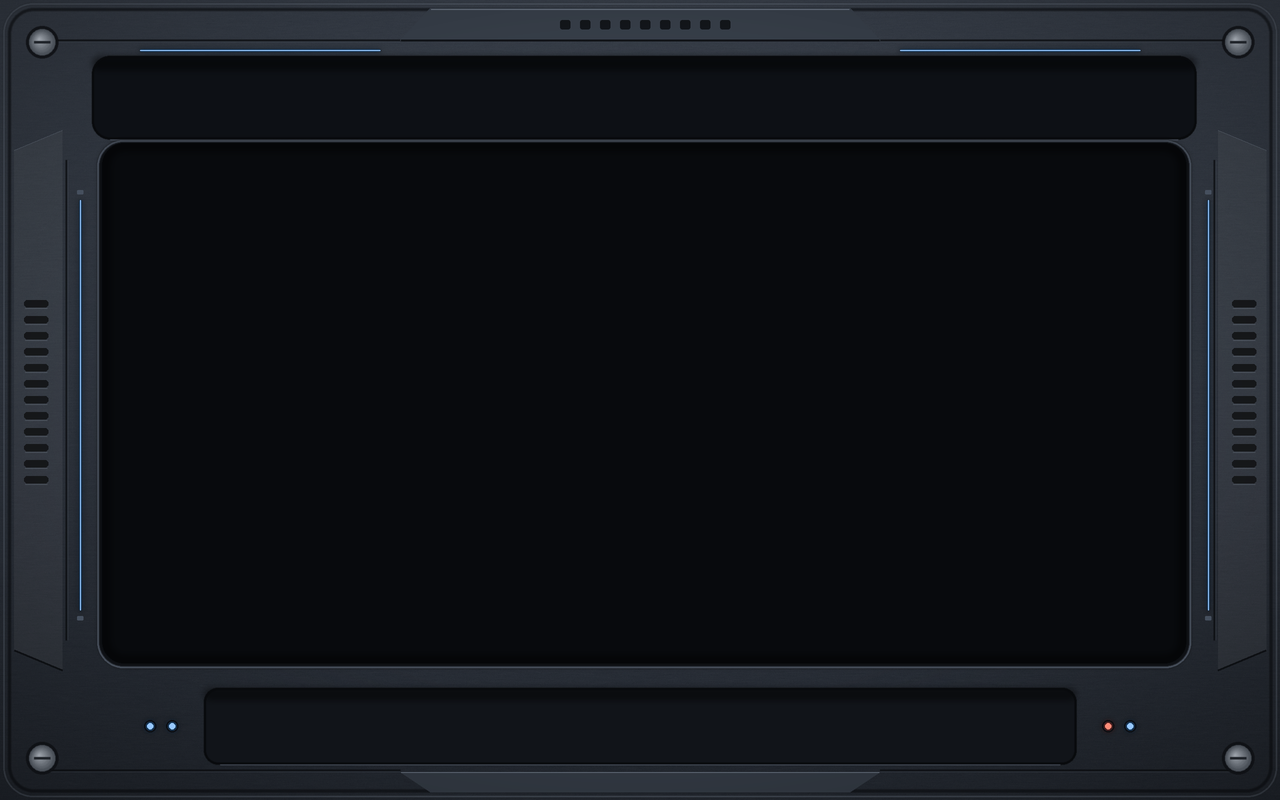
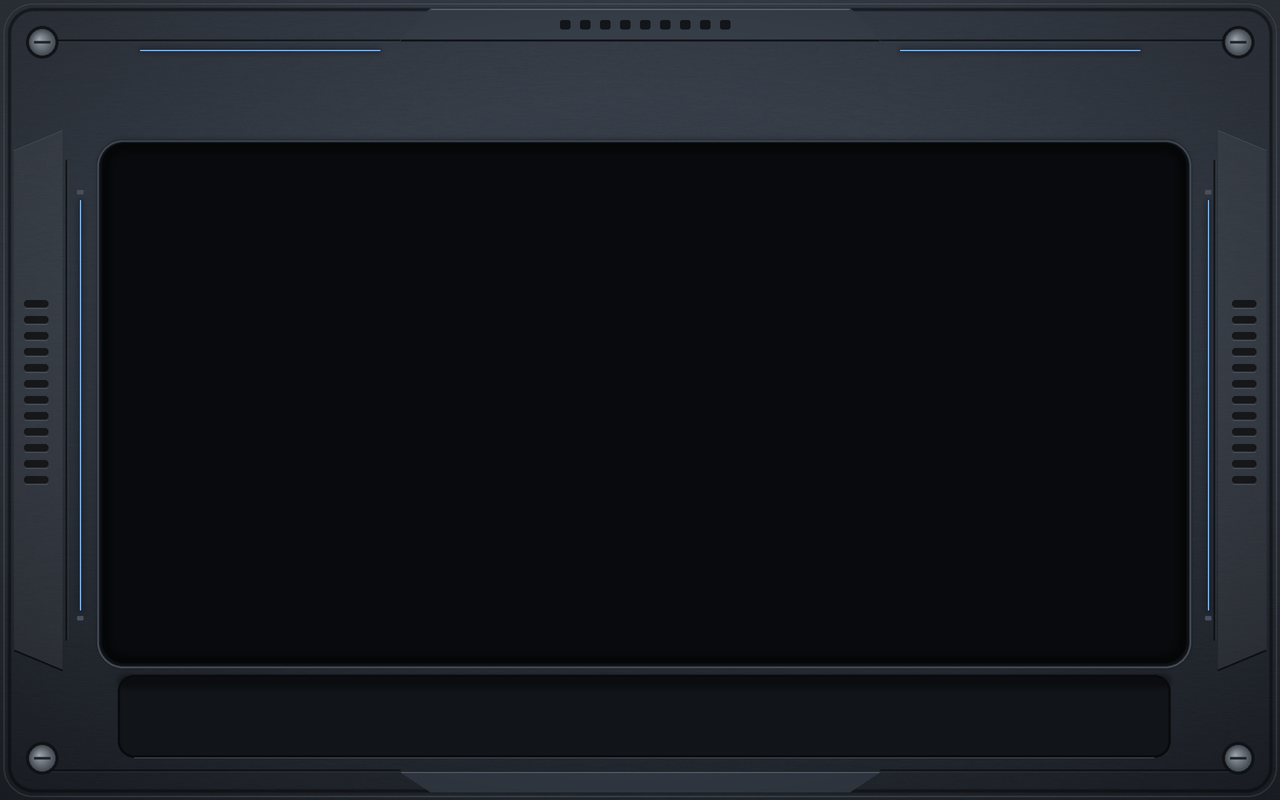
.

Changed region(s): [[0.0625, 0.0625, 0.9375, 0.1875], [0.0938, 0.8438, 0.9062, 0.875], [0.1562, 0.9375, 0.8438, 0.9688]]

diff --git a/widgets/top_bar.py b/widgets/top_bar.py
@@ -13,7 +13,7 @@ import subprocess
 import sys
 
 from PyQt6.QtWidgets import QFrame, QHBoxLayout, QVBoxLayout, QLabel, QWidget
-from PyQt6.QtGui import QPainter, QColor, QFont, QFontMetrics, QPen, QPolygonF
+from PyQt6.QtGui import QPainter, QColor, QFont, QFontMetrics, QPen, QPolygonF, QLinearGradient
 from PyQt6.QtCore import Qt, QTimer, QRectF, QPointF
 
 from core.logger import get_logger
@@ -21,12 +21,17 @@ from core.theme_manager import theme_manager
 from core.battery import battery_profile
 from threads.network_monitor import NetworkMonitorThread
 
-# Position over the header band of the background image
-BAR_X, BAR_Y, BAR_WIDTH, BAR_HEIGHT = 102, 70, 1084, 64
+# Recess over the header band, lined up with the edges of the body panel;
+# the bar sits inside it like the screens sit inside the body panel
+RECESS_X, RECESS_Y, RECESS_WIDTH, RECESS_HEIGHT = 102, 64, 1084, 76
+RECESS_INSET = 5
+RECESS_RADIUS = 16
+BAR_WIDTH = RECESS_WIDTH - 2 * RECESS_INSET
+BAR_HEIGHT = RECESS_HEIGHT - 2 * RECESS_INSET
 
 ROBOT_CELL_WIDTH = 190
 GAUGE_CELL_WIDTH = 250
-WIFI_CELL_WIDTH = 200
+WIFI_CELL_WIDTH = 160
 DECK_CELL_WIDTH = 180
 
 # Room left for the alert text: the status cell less its margins, icon and gaps
@@ -202,14 +207,16 @@ class WarningIcon(QWidget):
         painter.drawEllipse(QPointF(10, 14.7), 1.1, 1.1)
 
 
-class TopBar(QFrame):
-    """Status bar over the header band; parented to the main window"""
+class TopBar(QWidget):
+    """Status bar in its own recess over the header band; parented to the main window"""
 
     def __init__(self, parent: QWidget, pi_ip: str = "10.42.0.1"):
         super().__init__(parent)
         self.logger = get_logger("ui")
-        self.setObjectName("top_bar")
-        self.setGeometry(BAR_X, BAR_Y, BAR_WIDTH, BAR_HEIGHT)
+        self.setGeometry(RECESS_X, RECESS_Y, RECESS_WIDTH, RECESS_HEIGHT)
+        self.panel = QFrame(self)
+        self.panel.setObjectName("top_bar")
+        self.panel.setGeometry(RECESS_INSET, RECESS_INSET, BAR_WIDTH, BAR_HEIGHT)
         self.pi_ip = pi_ip
 
         # Last good readings; None until one arrives
@@ -252,8 +259,31 @@ class TopBar(QFrame):
 
     # ---------- Layout ----------
 
+    def paintEvent(self, event):
+        """Dark recess with a shaded top edge and a faint lit lower lip"""
+        painter = QPainter(self)
+        painter.setRenderHint(QPainter.RenderHint.Antialiasing)
+        rect = QRectF(0.5, 0.5, self.width() - 1, self.height() - 1)
+
+        painter.setPen(QPen(QColor(0, 0, 0), 1))
+        painter.setBrush(QColor(10, 11, 13))
+        painter.drawRoundedRect(rect, RECESS_RADIUS, RECESS_RADIUS)
+
+        shade = QLinearGradient(0, 0, 0, RECESS_INSET * 2)
+        shade.setColorAt(0, QColor(0, 0, 0, 150))
+        shade.setColorAt(1, QColor(0, 0, 0, 0))
+        painter.setPen(Qt.PenStyle.NoPen)
+        painter.setBrush(shade)
+        painter.drawRoundedRect(rect, RECESS_RADIUS, RECESS_RADIUS)
+
+        painter.setPen(QPen(QColor(255, 255, 255, 30), 1))
+        painter.setBrush(Qt.BrushStyle.NoBrush)
+        lip = QRectF(rect.left() + RECESS_RADIUS, rect.bottom() - 0.5,
+                     rect.width() - 2 * RECESS_RADIUS, 0)
+        painter.drawLine(lip.topLeft(), lip.topRight())
+
     def _build(self):
-        layout = QHBoxLayout(self)
+        layout = QHBoxLayout(self.panel)
         layout.setContentsMargins(1, 1, 1, 1)
         layout.setSpacing(0)
 
@@ -374,7 +404,7 @@ class TopBar(QFrame):
 
     def _apply_theme(self):
         frame = self._alert_color or rgba(theme_manager.get("primary_color"), 0.45)
-        self.setStyleSheet(f"""
+        self.panel.setStyleSheet(f"""
             QFrame#top_bar {{
                 background-color: rgba(12, 12, 12, 0.78);
                 border: 1px solid {frame};
